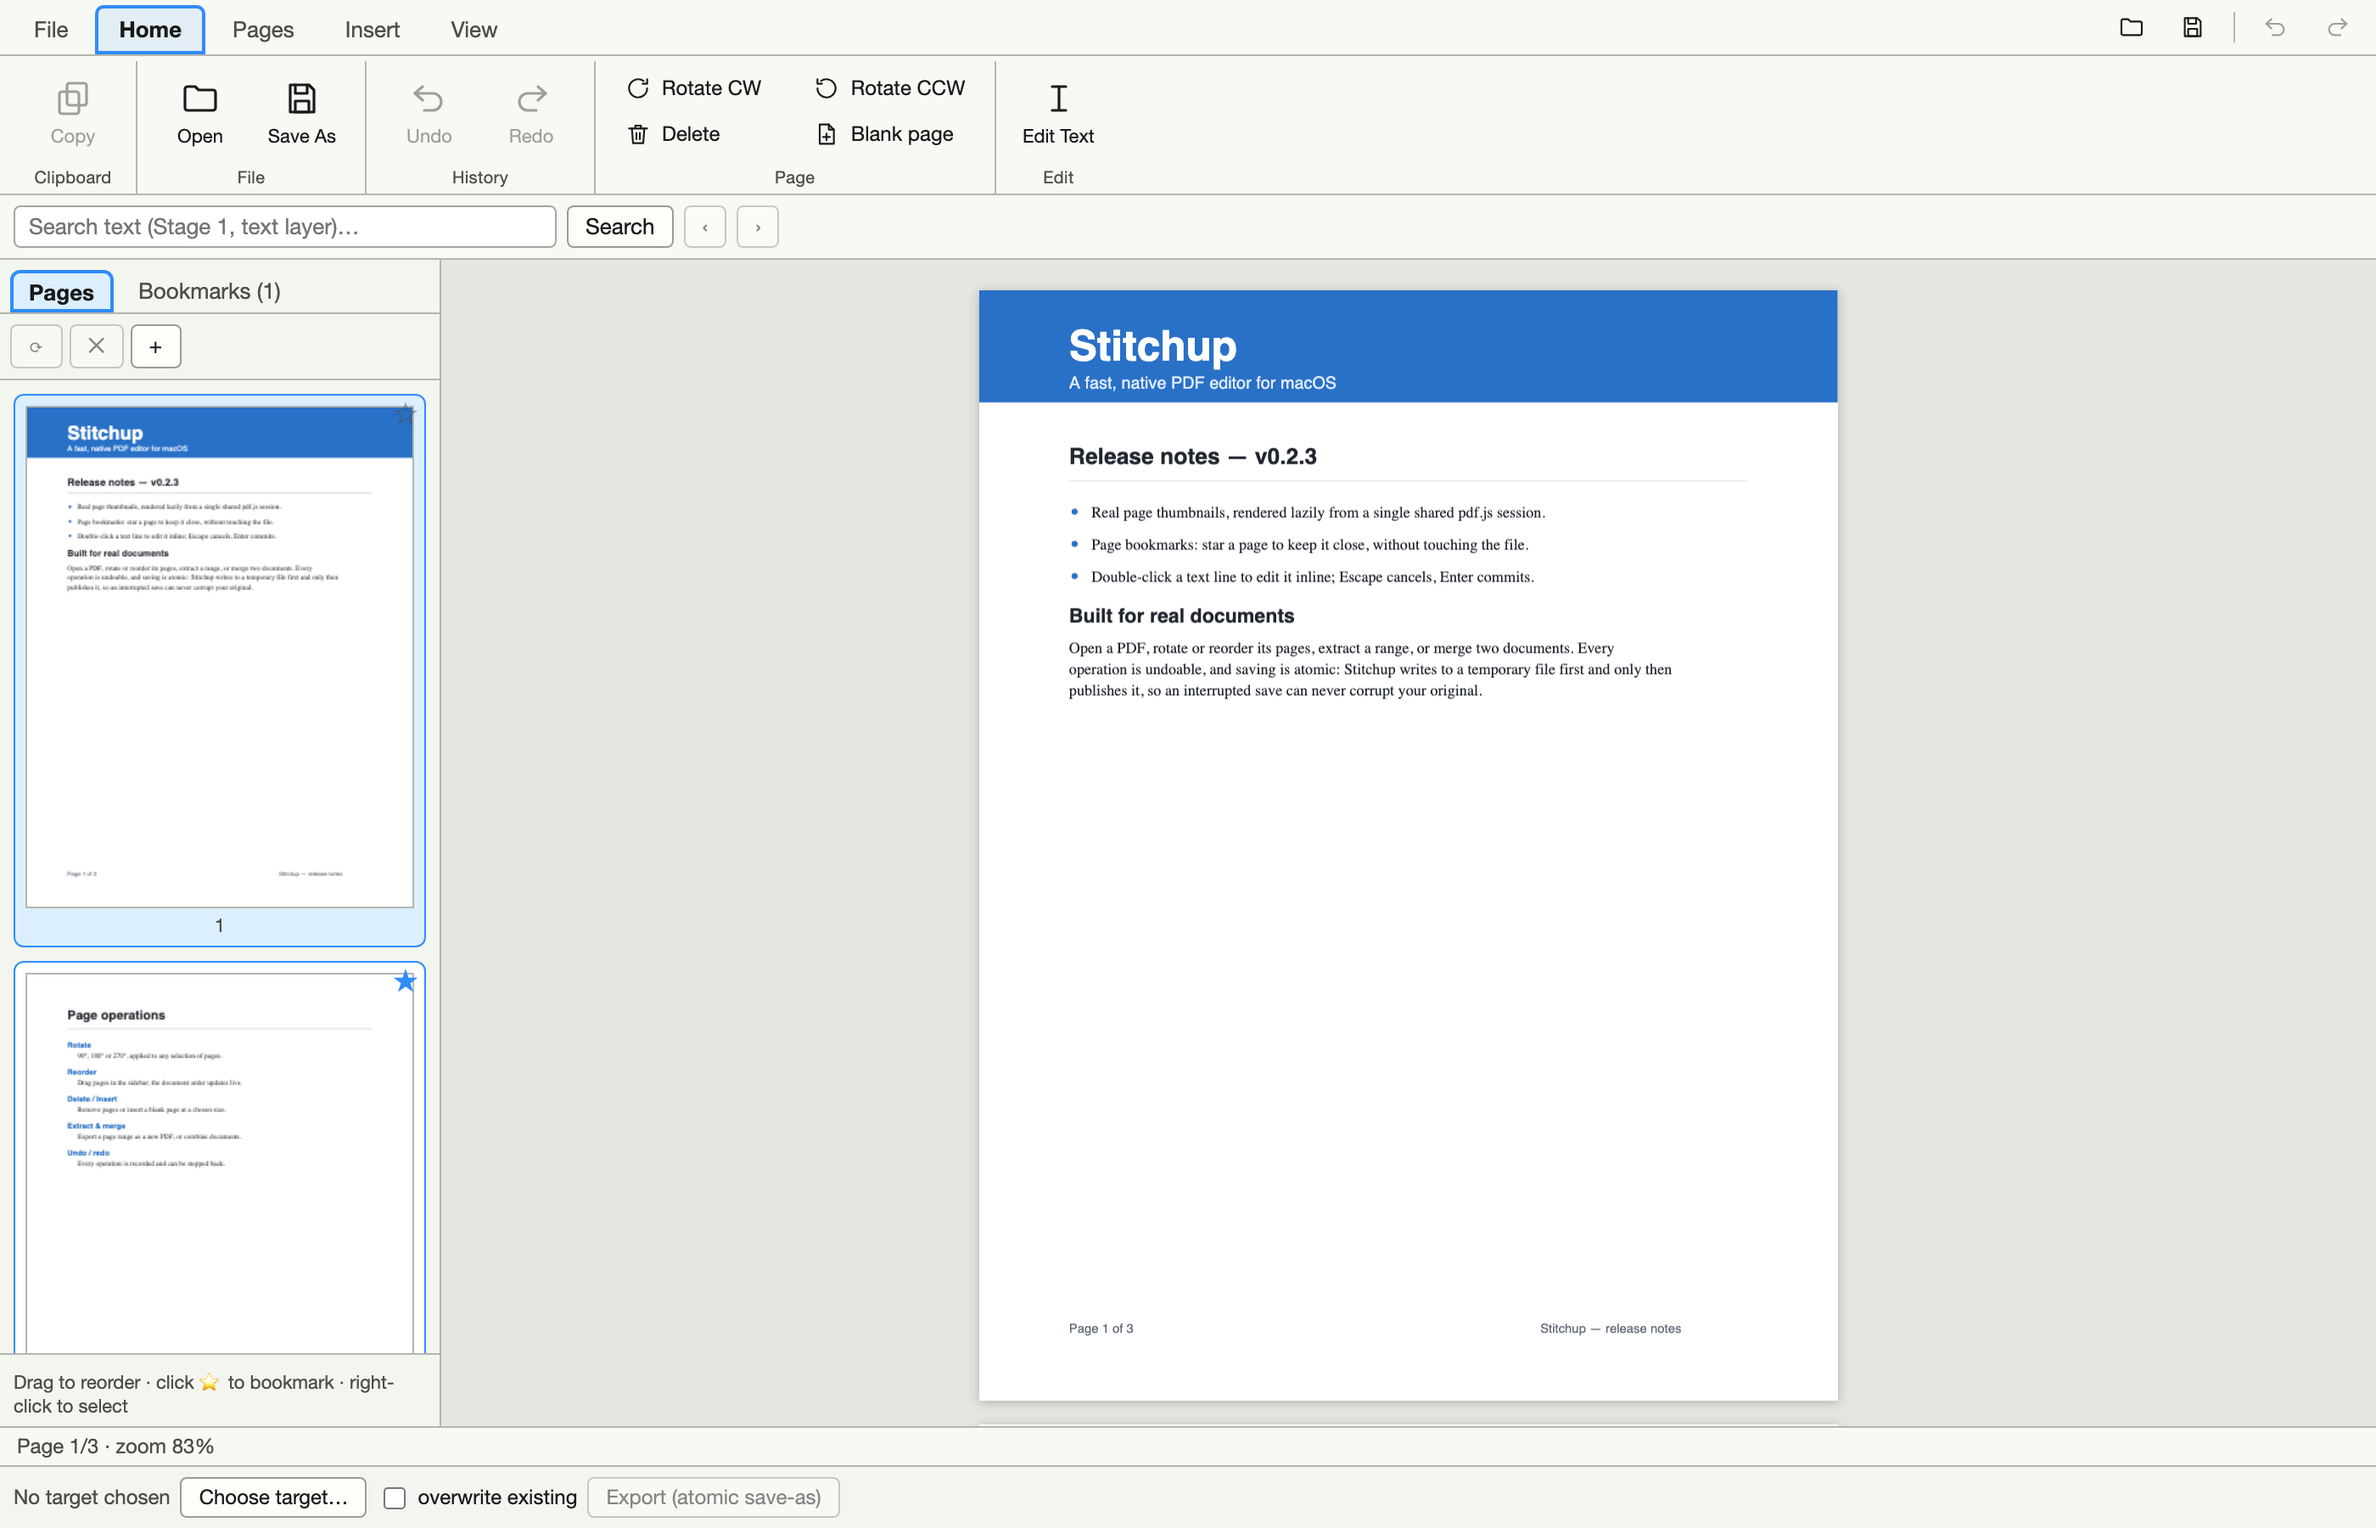
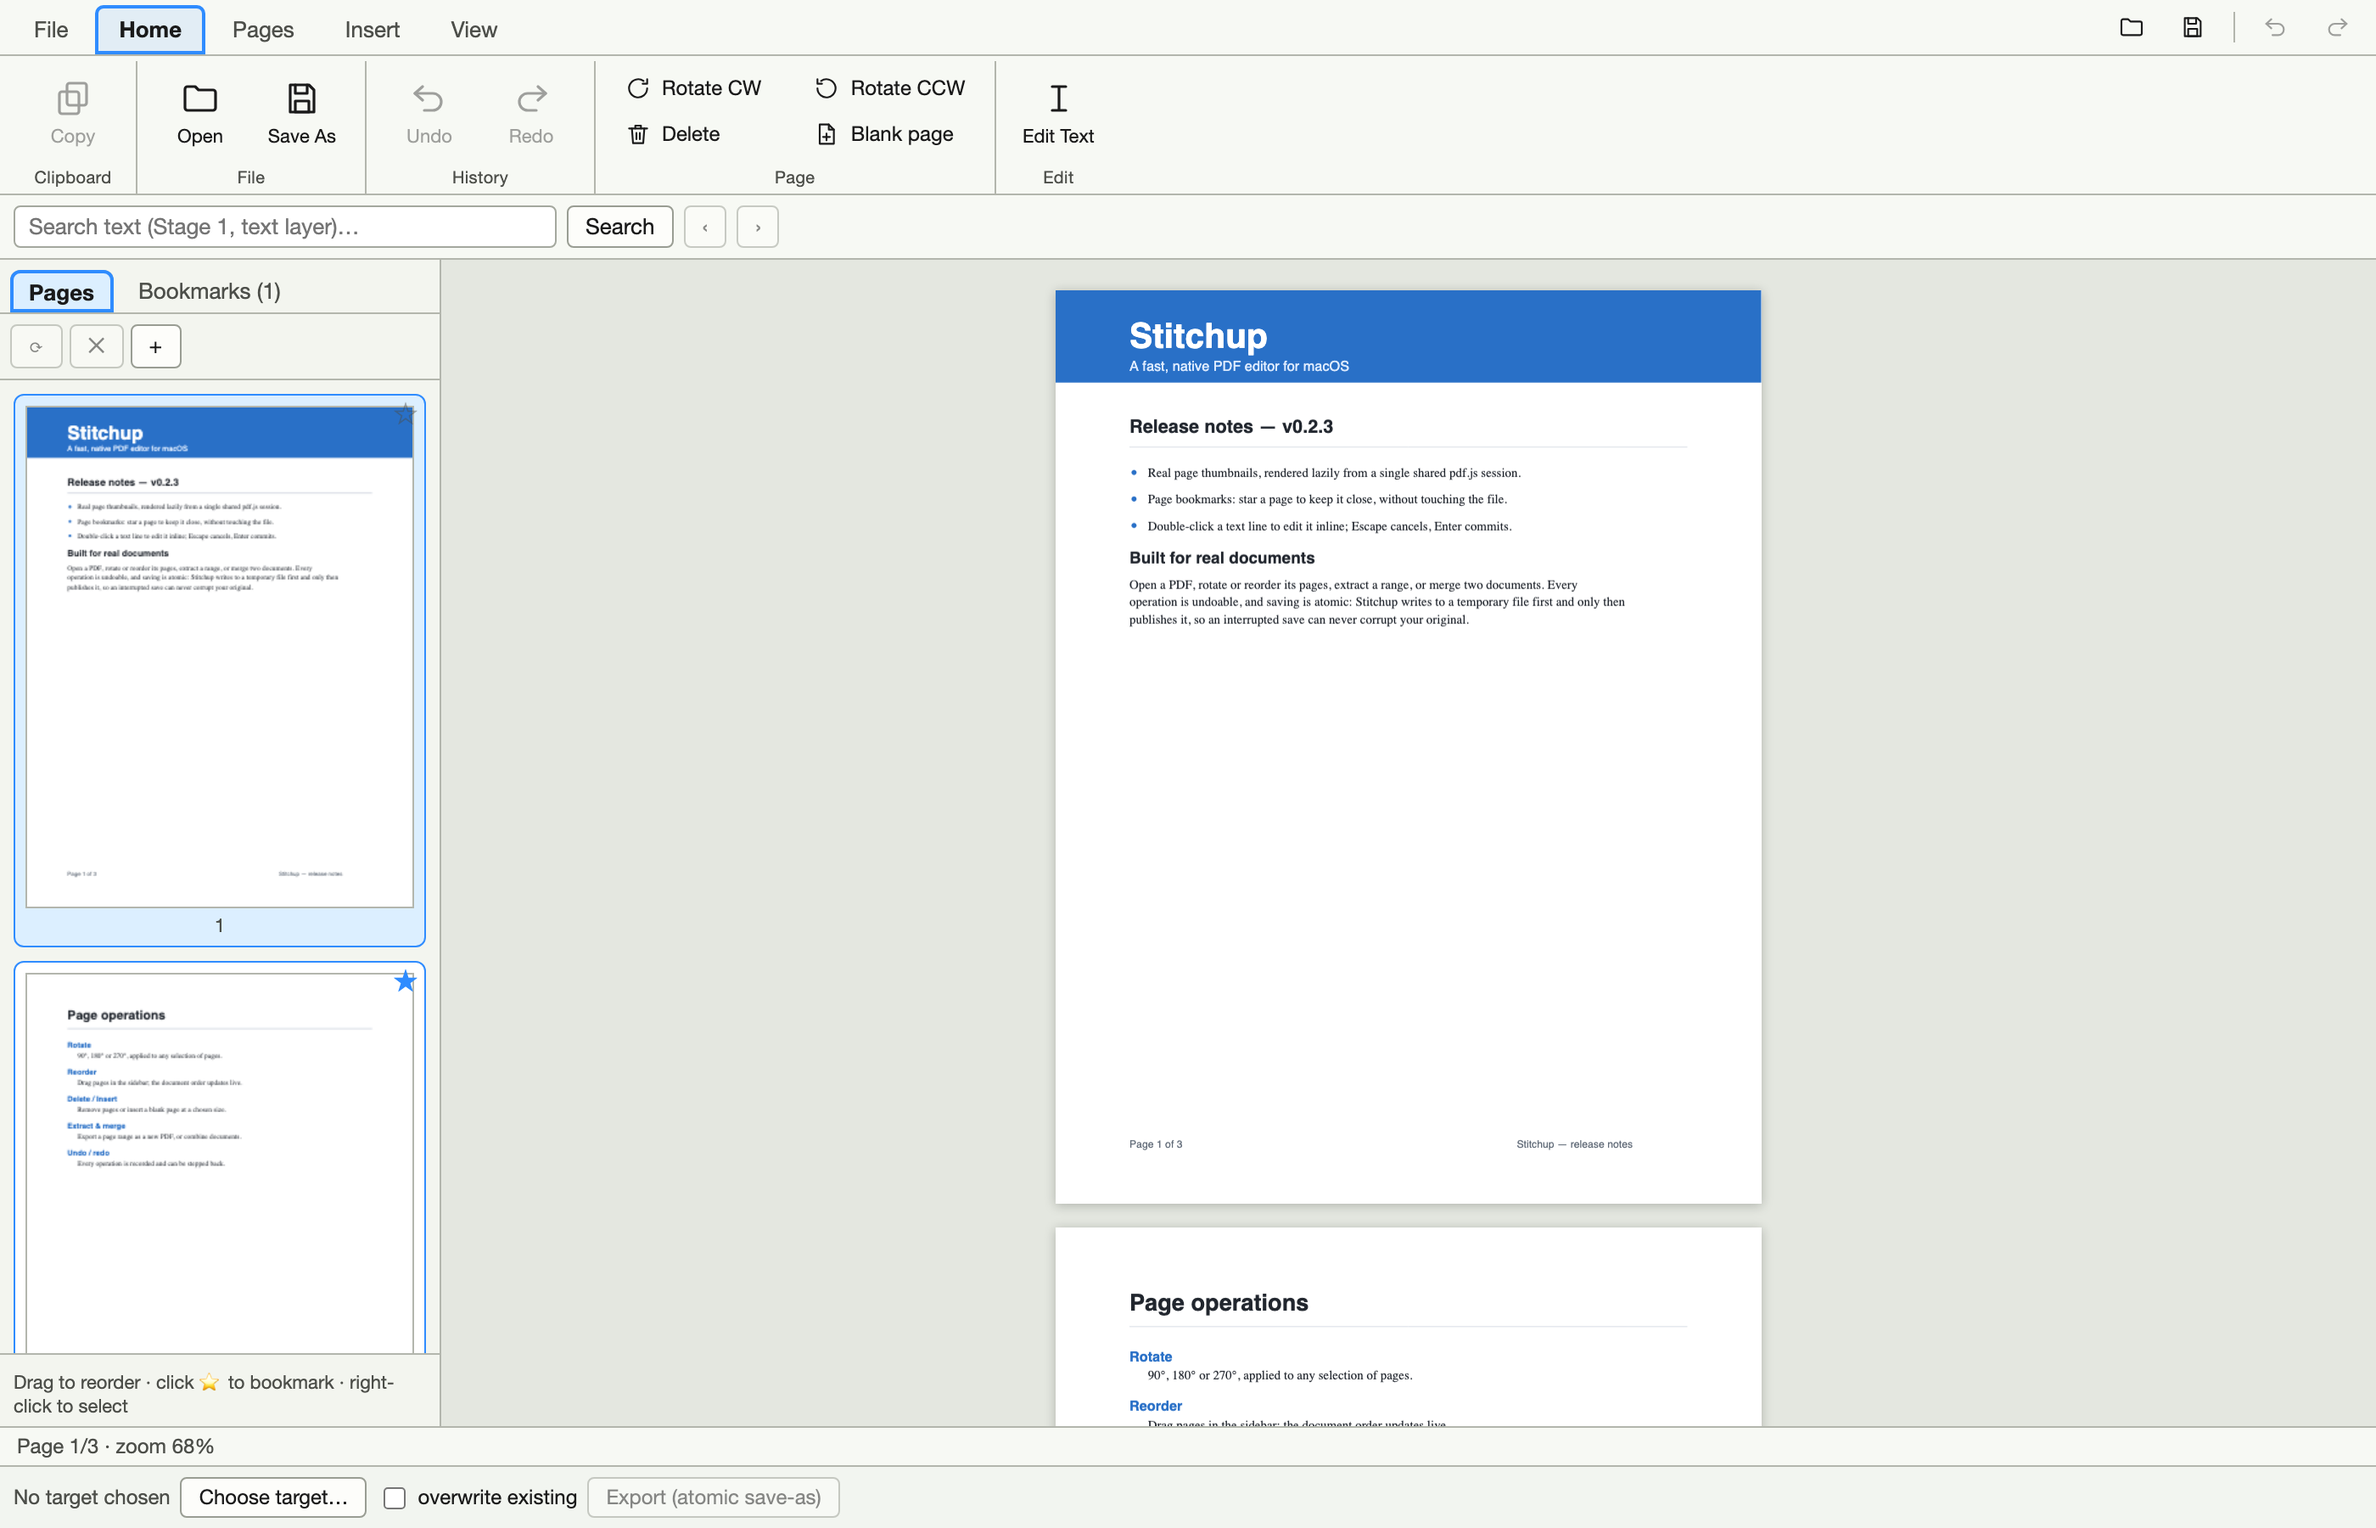
feat: real fit-page/fit-width zoom (viewport measure + recompute)

Changed region(s): [[0.4039, 0.1867, 0.7768, 0.9333]]

diff --git a/source/app/src/features/viewer/Viewer.tsx b/source/app/src/features/viewer/Viewer.tsx
@@ -263,6 +263,24 @@ function PageView({ session, pageNo }: { session: RenderSession; pageNo: number 
 export function Viewer() {
   const app = useAppState();
   const [err, setErr] = useState<string | null>(null);
+  const scrollRef = useRef<HTMLDivElement | null>(null);
+
+  // Track the scrolling viewport size so fit-page/fit-width can compute an
+  // exact scale, and recompute whenever the window/pane changes.
+  useEffect(() => {
+    const el = scrollRef.current;
+    if (!el) return;
+    const measure = () => store.setViewport(el.clientWidth, el.clientHeight);
+    measure();
+    if (typeof ResizeObserver === "undefined") {
+      window.addEventListener("resize", measure);
+      return () => window.removeEventListener("resize", measure);
+    }
+    const ro = new ResizeObserver(measure);
+    ro.observe(el);
+    return () => ro.disconnect();
+    // Re-run once the session arrives (the scroll container only mounts then).
+  }, [app.doc?.bytesB64, app.session]);
 
   // Mirror the document selection into the store so Copy can enable/disable and
   // report a count (A-c10).
@@ -273,6 +291,27 @@ export function Viewer() {
     document.addEventListener("selectionchange", onSelectionChange);
     return () => document.removeEventListener("selectionchange", onSelectionChange);
   }, []);
+
+  // Fit-page / fit-width: derive the scale from the measured viewport and the
+  // current page's (rotation-swapped) point size. Re-runs on resize, pane
+  // toggle, page change and document change, so the fit stays exact.
+  useEffect(() => {
+    const meta = app.doc?.pages.find((p) => p.page_no === app.currentPage);
+    if (!meta) return;
+    const vp = app.viewport;
+    if (vp.width <= 0 || vp.height <= 0) return;
+    const swapped = ((meta.rotation % 180) + 180) % 180 === 90;
+    store.applyFit(vp, {
+      width: swapped ? meta.height_pt : meta.width_pt,
+      height: swapped ? meta.width_pt : meta.height_pt,
+    });
+  }, [
+    app.viewport,
+    app.zoomMode,
+    app.currentPage,
+    app.doc?.bytesB64,
+    app.doc?.pages,
+  ]);
 
   // Bind pdf.js once per document and publish the session to the store so the
   // sidebar thumbnails reuse it. Closing/replacing the doc destroys the binding.
@@ -343,7 +382,11 @@ export function Viewer() {
   }
 
   return (
-    <div className="viewer-scroll">
+    <div
+      className="viewer-scroll"
+      ref={(el) => {
+        scrollRef.current = el;
+      }}>
       {overlay}
       {body}
     </div>

diff --git a/source/app/src/store.ts b/source/app/src/store.ts
@@ -48,6 +48,8 @@ export interface AppState {
    * viewer and the sidebar thumbnails render from ONE session (bind once).
    */
   session: RenderSession | null;
+  /** CSS size of the scrolling viewer area (for fit-page/fit-width). */
+  viewport: { width: number; height: number };
 }
 
 let state: AppState = {
@@ -68,6 +70,7 @@ let state: AppState = {
   paneTab: "pages",
   unlockOpen: false,
   session: null,
+  viewport: { width: 0, height: 0 },
 };
 
 const listeners = new Set<() => void>();
@@ -377,6 +380,39 @@ export const store = {
 
   setZoom(z: number, mode: AppState["zoomMode"]) {
     set({ zoom: z, zoomMode: mode });
+  },
+
+  /**
+   * Switch to a fit mode; the exact scale is computed by Viewer (which owns the
+   * viewport measurement) on the next render via applyFit().
+   */
+  setFitMode(mode: "fit-page" | "fit-width") {
+    set({ zoomMode: mode });
+  },
+
+  /**
+   * Called by the Viewer with the measured viewport and the current page's
+   * visible size so a fit mode produces an exact scale. No-op in custom/actual.
+   */
+  applyFit(viewport: { width: number; height: number }, page: { width: number; height: number }) {
+    const mode = state.zoomMode;
+    if (mode !== "fit-page" && mode !== "fit-width") return;
+    const pad = 18; // must match .viewer-scroll padding
+    const availW = Math.max(1, viewport.width - pad * 2);
+    const availH = Math.max(1, viewport.height - pad * 2);
+    const w = Math.max(1, page.width);
+    const h = Math.max(1, page.height);
+    let z = mode === "fit-width" ? availW / w : Math.min(availW / w, availH / h);
+    z = Math.max(0.25, Math.min(5, z));
+    if (Math.abs(z - state.zoom) < 0.001) return;
+    set({ zoom: z });
+  },
+
+  /** Record the scrolling viewport size (drives fit-page/fit-width). */
+  setViewport(width: number, height: number) {
+    const p = state.viewport;
+    if (p.width === width && p.height === height) return;
+    set({ viewport: { width, height } });
   },
 
   setViewMode(mode: AppState["viewMode"]) {

diff --git a/source/app/src/features/ribbon/Ribbon.tsx b/source/app/src/features/ribbon/Ribbon.tsx
@@ -391,8 +391,8 @@ export function Ribbon() {
                 <div className="rb-grid">
                   <Small icon="zoom-out" label="Zoom −" onClick={() => store.setZoom(Math.max(0.25, app.zoom - 0.1), "custom")} disabled={!doc} />
                   <Small icon="zoom-in" label="Zoom +" onClick={() => store.setZoom(Math.min(5, app.zoom + 0.1), "custom")} disabled={!doc} />
-                  <Small icon="fit-page" label="Fit page" onClick={() => store.setZoom(app.zoom, "fit-page")} disabled={!doc} active={app.zoomMode === "fit-page"} />
-                  <Small icon="fit-width" label="Fit width" onClick={() => store.setZoom(app.zoom, "fit-width")} disabled={!doc} active={app.zoomMode === "fit-width"} />
+                  <Small icon="fit-page" label="Fit page" onClick={() => store.setFitMode("fit-page")} disabled={!doc} active={app.zoomMode === "fit-page"} />
+                  <Small icon="fit-width" label="Fit width" onClick={() => store.setFitMode("fit-width")} disabled={!doc} active={app.zoomMode === "fit-width"} />
                   <Small icon="actual" label="Actual (1:1)" onClick={() => store.setZoom(1, "actual")} disabled={!doc} active={app.zoomMode === "actual"} />
                 </div>
                 <span className="ribbon-readout">{Math.round(app.zoom * 100)}%</span>

diff --git a/source/app/src/App.tsx b/source/app/src/App.tsx
@@ -36,10 +36,10 @@ export default function App() {
         store.setZoom(app.zoom / 1.1, "custom");
       } else if (matchesShortcut(e, SHORTCUTS.fitPage)) {
         e.preventDefault();
-        store.setZoom(app.zoom, "fit-page");
+        store.setFitMode("fit-page");
       } else if (matchesShortcut(e, SHORTCUTS.fitWidth)) {
         e.preventDefault();
-        store.setZoom(app.zoom, "fit-width");
+        store.setFitMode("fit-width");
       } else if (matchesShortcut(e, SHORTCUTS.toggleView)) {
         e.preventDefault();
         const modes = CYCLE_VIEW;
